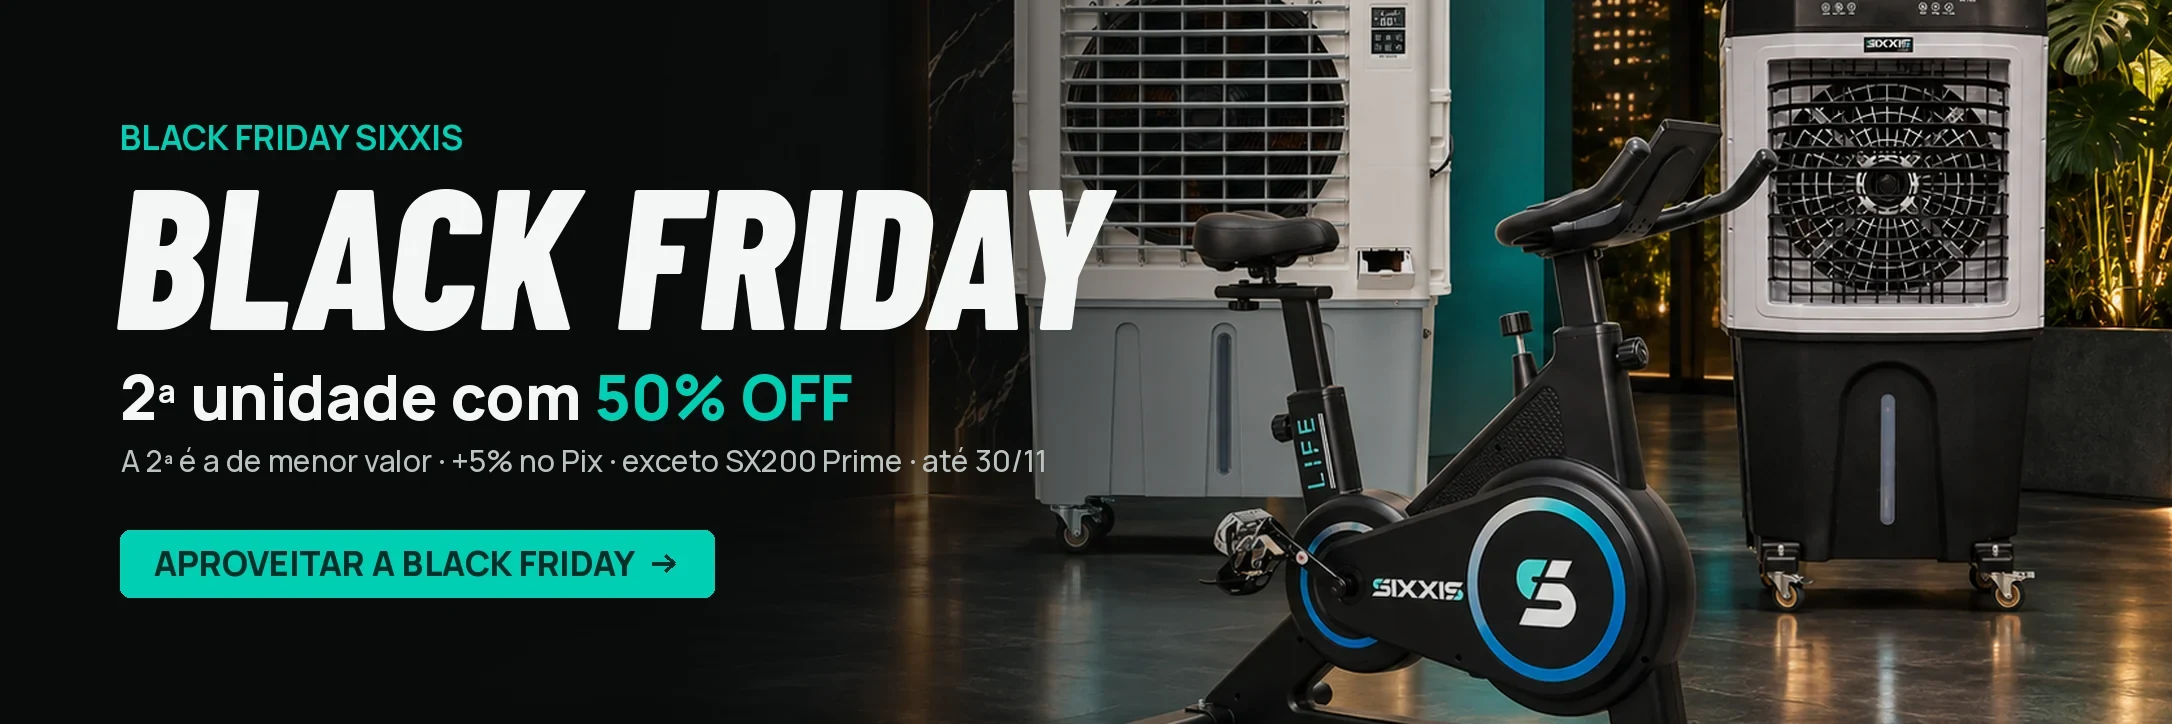
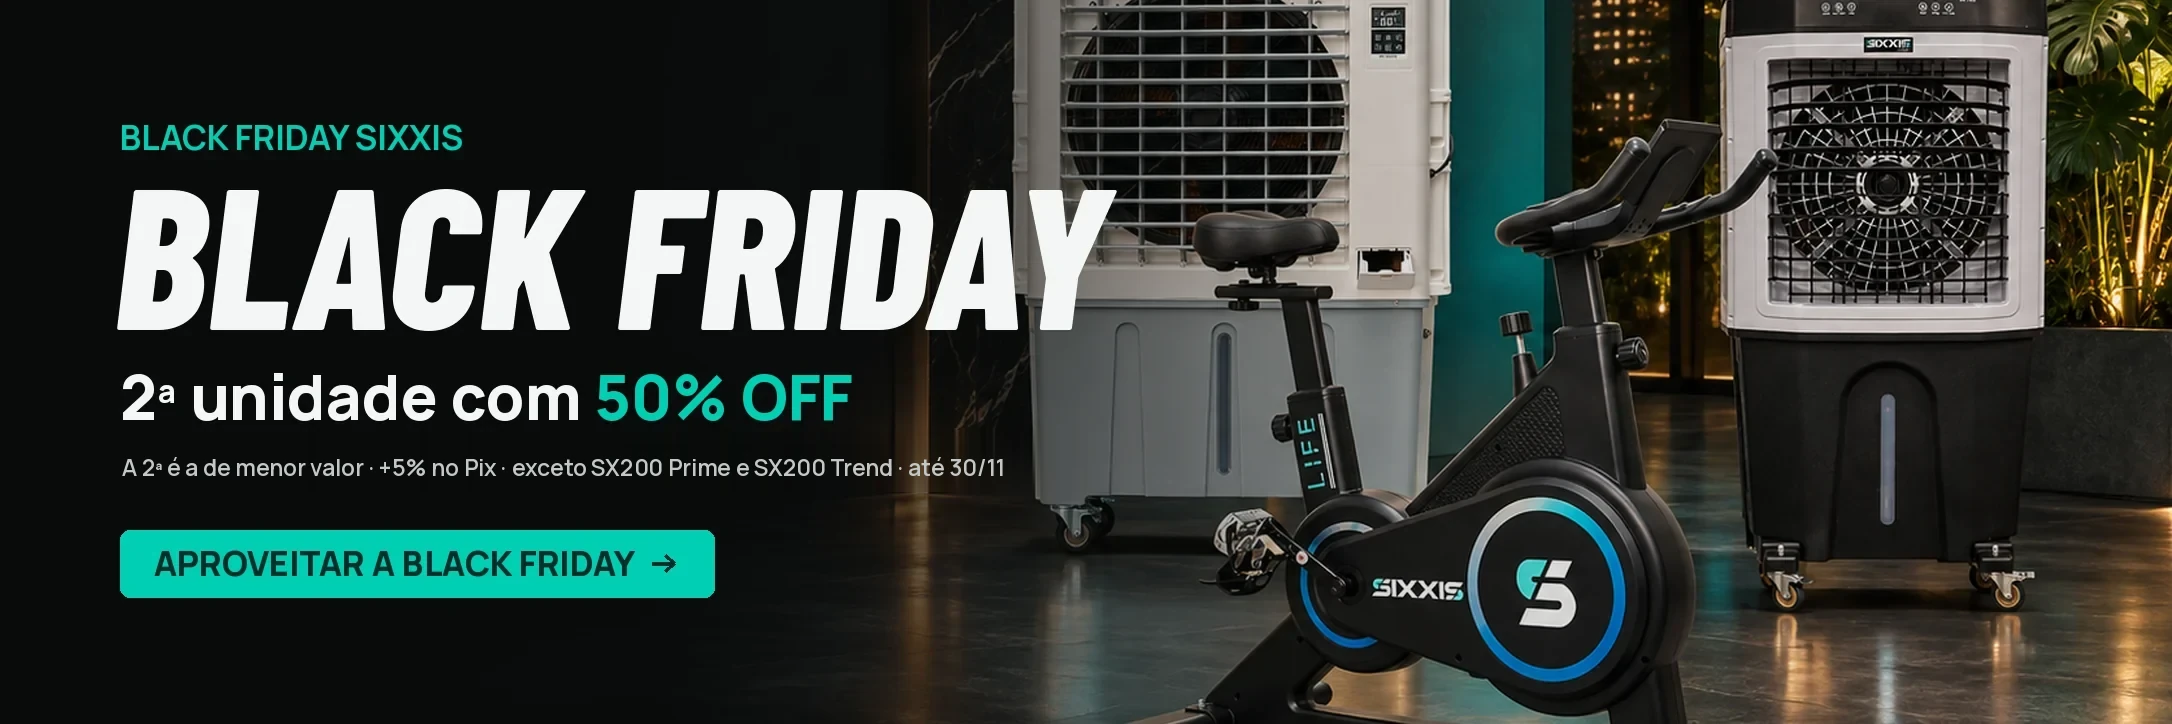
feat(storefront): remove SX200 Trend promotions

Changed region(s): [[0.0617, 0.6077, 0.4936, 0.6685]]

diff --git a/src/lib/api-v1/resources/vendas.ts b/src/lib/api-v1/resources/vendas.ts
@@ -553,9 +553,9 @@ export function createCommerceResources(deps: CommerceResourceOptions = {}): Res
     },
     {
       slug: 'cupons', model: 'Cupom', scope: 'read:pedidos',
-      scalarFields: ['id', 'codigo', 'tipo', 'valor', 'usoMaximo', 'totalUsos', 'pedidoMinimo', 'validade', 'ativo', 'descricao', 'primeiraCompra', 'produtoIds', 'unidadeUnica', 'createdAt', 'updatedAt'],
+      scalarFields: ['id', 'codigo', 'tipo', 'valor', 'usoMaximo', 'totalUsos', 'pedidoMinimo', 'validade', 'ativo', 'descricao', 'primeiraCompra', 'produtoIds', 'produtoIdsExcluidos', 'unidadeUnica', 'createdAt', 'updatedAt'],
       publicFields: ['codigo'],
-      select: { id: true, codigo: true, tipo: true, valor: true, usoMaximo: true, totalUsos: true, pedidoMinimo: true, validade: true, ativo: true, descricao: true, primeiraCompra: true, produtoIds: true, unidadeUnica: true, createdAt: true, updatedAt: true } as const satisfies Prisma.CupomSelect,
+      select: { id: true, codigo: true, tipo: true, valor: true, usoMaximo: true, totalUsos: true, pedidoMinimo: true, validade: true, ativo: true, descricao: true, primeiraCompra: true, produtoIds: true, produtoIdsExcluidos: true, unidadeUnica: true, createdAt: true, updatedAt: true } as const satisfies Prisma.CupomSelect,
       fields: [
         { name: 'id', type: 'string' },
         { name: 'codigo', type: 'string' },
@@ -569,6 +569,7 @@ export function createCommerceResources(deps: CommerceResourceOptions = {}): Res
         { name: 'descricao', type: 'string', nullable: true },
         { name: 'primeiraCompra', type: 'boolean' },
         { name: 'produtoIds', type: 'string', nullable: true },
+        { name: 'produtoIdsExcluidos', type: 'string', nullable: true, description: 'CSV de produtos que não recebem o cupom.' },
         { name: 'unidadeUnica', type: 'boolean', description: 'Quando true, o cupom só vale com 1 unidade no carrinho (mutuamente exclusivo com a promo da 2ª unidade).' },
         { name: 'createdAt', type: 'string', format: 'date-time' },
         { name: 'updatedAt', type: 'string', format: 'date-time' },
@@ -608,6 +609,7 @@ export function createCommerceResources(deps: CommerceResourceOptions = {}): Res
           descricao: row.descricao,
           primeiraCompra: row.primeiraCompra,
           produtoIds: row.produtoIds,
+          produtoIdsExcluidos: row.produtoIdsExcluidos,
           unidadeUnica: row.unidadeUnica,
           createdAt: timestamp(row.createdAt),
           updatedAt: timestamp(row.updatedAt),

diff --git a/src/lib/promo-segunda-unidade.paridade.test.ts b/src/lib/promo-segunda-unidade.paridade.test.ts
@@ -37,7 +37,7 @@ const SX200_PRIME: Prod = {
   ],
 }
 const SX200_TREND: Prod = {
-  id: 'p-sx200-trend', erp: 'ERP-200T', sku: 'CLIM-SX200-TREND', slug: 'sx200-trend', preco: 5175,
+  id: 'p-sx200-trend', erp: 'ERP-200T', sku: 'CLIM-SX200-TREND', slug: 'sx200-trend', preco: 5750,
   variacoes: [{ id: 'v-t220', sku: 'CLIM-SX200-TREND-220V', preco: null }],
 }
 const SX100: Prod = {
@@ -111,9 +111,14 @@ describe('SX200 Prime fora da promo — item com SKU da variação', () => {
     expect(idExcluidoDaPromo('CLIM-SX200-PRIME-Branco')).toBe(true)
     expect(idExcluidoDaPromo(null)).toBe(false)
   })
-  it('nome parecido não é variação: SX200 Trend continua na promo', () => {
-    const r = calcularPromoCliente([{ feedId: 'CLIM-SX200-TREND-220V', preco: 5175, quantidade: 2 }], DENTRO)
-    expect(r.desconto).toBeCloseTo(2587.5, 2)
+  it('SX200 Trend e sua variação ficam fora da promoção e sem selo', () => {
+    const r = calcularPromoCliente([{ feedId: 'CLIM-SX200-TREND-220V', preco: 5750, quantidade: 2 }], DENTRO)
+    expect(r.ativo).toBe(false)
+    expect(r.desconto).toBe(0)
+    expect(idExcluidoDaPromo('CLIM-SX200-TREND')).toBe(true)
+    expect(idExcluidoDaPromo('CLIM-SX200-TREND-220V')).toBe(true)
+    expect(promoVigentePorFeedId('CLIM-SX200-TREND', DENTRO)).toBeNull()
+    expect(promoVigentePorFeedId('CLIM-SX200-TREND-220V', DENTRO)).toBeNull()
   })
 })
 
@@ -155,7 +160,7 @@ describe('paridade cliente == servidor (matriz de carrinhos)', () => {
       ],
       desconto: 1995,
     },
-    { nome: '2× SX200 Trend (COM desconto)', linhas: [{ p: SX200_TREND, variacaoId: 'v-t220', quantidade: 2 }], desconto: 2587.5 },
+    { nome: '2× SX200 Trend (SEM desconto)', linhas: [{ p: SX200_TREND, variacaoId: 'v-t220', quantidade: 2 }], desconto: 0 },
     {
       nome: 'SX100 + aspirador (desconto no mais barato)',
       linhas: [
@@ -180,6 +185,7 @@ describe('ressalva visível da promo', () => {
   it('com produto excluído, a ressalva existe e cita o produto (promessa em destaque não pode omitir a exceção)', () => {
     expect(PROMO_BF.excluir.length).toBeGreaterThan(0)
     expect(PROMO_BF.ressalva).toMatch(/SX200 Prime/)
+    expect(PROMO_BF.ressalva).toMatch(/SX200 Trend/)
   })
   it('o selo de PDP/vitrine carrega a ressalva', () => {
     expect(promoVigentePorFeedId('CLIM-SX100-TREND', DENTRO)?.ressalva).toBe(PROMO_BF.ressalva)

diff --git a/src/lib/cupom.ts b/src/lib/cupom.ts
@@ -113,22 +113,21 @@ export async function avaliarCupom(
   }
 
   // ── Escopo por produto (modelo) ───────────────────────────────────────────
-  // produtoIds vazio/null = cupom global (comportamento legado). Preenchido =
-  // só vale se o carrinho tiver produto elegível, e o desconto incide APENAS
-  // sobre o subtotal desses itens — não sobre o carrinho inteiro, pra não dar
-  // 10% em tudo só por ter o modelo no carrinho.
-  const escopo = (cupom.produtoIds ?? '').split(',').map((s) => s.trim()).filter(Boolean)
+  // produtoIds = inclusão opcional; produtoIdsExcluidos = exclusão opcional.
+  // Com qualquer escopo, a base vem dos itens elegíveis. Assim o servidor nunca
+  // dá desconto num produto excluído só porque o cupom é global.
+  const inclusoes = new Set((cupom.produtoIds ?? '').split(',').map((s) => s.trim()).filter(Boolean))
+  const exclusoes = new Set((cupom.produtoIdsExcluidos ?? '').split(',').map((s) => s.trim()).filter(Boolean))
   let baseDesconto = total
-  if (escopo.length > 0) {
-    const elegiveis = new Set(escopo)
+  if (inclusoes.size > 0 || exclusoes.size > 0) {
     baseDesconto = (itens ?? [])
-      .filter((i) => elegiveis.has(i.produtoId))
+      .filter((i) => (inclusoes.size === 0 || inclusoes.has(i.produtoId)) && !exclusoes.has(i.produtoId))
       .reduce((acc, i) => acc + i.subtotal, 0)
     if (baseDesconto <= 0) {
       return {
         valido: false,
         motivo: 'PRODUTO_NAO_ELEGIVEL',
-        erro:   'Este cupom vale apenas para um produto específico. Adicione o produto elegível ao carrinho.',
+        erro:   'Este cupom não é válido para os produtos do carrinho.',
       }
     }
   }

diff --git a/src/lib/cupom-unidade-unica.test.ts b/src/lib/cupom-unidade-unica.test.ts
@@ -31,6 +31,15 @@ function cupom(over: Partial<Cupom> = {}): Cupom {
   } as Cupom
 }
 
+type CupomComExclusoes = Cupom & { produtoIdsExcluidos: string | null }
+
+function cupomComExclusoes(
+  produtoIdsExcluidos: string | null,
+  over: Partial<Cupom> = {},
+): CupomComExclusoes {
+  return { ...cupom(over), produtoIdsExcluidos }
+}
+
 describe('cupom unidadeUnica (BLACKFRIDAY10 — só com 1 produto)', () => {
   it('válido com EXATAMENTE 1 unidade → 10% de desconto', async () => {
     const r = await avaliarCupom(cupom(), 1000, null, undefined, 1)
@@ -59,5 +68,29 @@ describe('cupom unidadeUnica (BLACKFRIDAY10 — só com 1 produto)', () => {
   it('sem totalUnidades informado (chamador legado) → regra omitida, cupom passa', async () => {
     const r = await avaliarCupom(cupom(), 1000, null, undefined, undefined)
     expect(r.valido).toBe(true)
+  })
+
+  it('REJEITA o SX200 Trend mesmo com exatamente 1 unidade', async () => {
+    const r = await avaliarCupom(
+      cupomComExclusoes('p-sx200-trend'),
+      5750,
+      null,
+      [{ produtoId: 'p-sx200-trend', subtotal: 5750 }],
+      1,
+    )
+    expect(r.valido).toBe(false)
+    expect(r.motivo).toBe('PRODUTO_NAO_ELEGIVEL')
+  })
+
+  it('mantém o BLACKFRIDAY10 válido para uma unidade de produto elegível', async () => {
+    const r = await avaliarCupom(
+      cupomComExclusoes('p-sx200-trend'),
+      3990,
+      null,
+      [{ produtoId: 'p-sx100', subtotal: 3990 }],
+      1,
+    )
+    expect(r.valido).toBe(true)
+    expect(r.desconto).toBe(399)
   })
 })

diff --git a/src/lib/promo-segunda-unidade.ts b/src/lib/promo-segunda-unidade.ts
@@ -65,12 +65,14 @@ export const PROMO_BF: ConfigPromoBF = {
   inicio:             '2026-11-23T00:00:00-03:00', // começa hoje (GO do Luccas 23/11)
   fim:                '2026-11-30T23:59:59-03:00',  // Cyber Monday (default — confirmar fim com Luccas)
   descricao:          '2ª unidade com 50% OFF — Black Friday',
-  ressalva:           'exceto SX200 Prime',
-  // 23/11/2026 (pedido do Luccas): SX200 Prime fora da promo da 2ª unidade
-  // (único produto excluído). Lista sku E slug para cobrir desconto E badge
-  // (feedId = sku ?? slug). As variações CLIM-SX200-PRIME-Branco/-Preto (que é o
-  // que o carrinho guarda) caem pela regra do SKU-base — ver `excluido()`.
-  excluir:            ['CLIM-SX200-PRIME', 'sx200-prime'],
+  ressalva:           'exceto SX200 Prime e SX200 Trend',
+  // SX200 Prime e SX200 Trend ficam fora da promo da 2ª unidade. Lista sku E
+  // slug para cobrir desconto E badge (feedId = sku ?? slug). As variações caem
+  // pela regra do SKU-base — ver `excluido()`.
+  excluir:            [
+    'CLIM-SX200-PRIME', 'sx200-prime',
+    'CLIM-SX200-TREND', 'sx200-trend',
+  ],
   pisoItemDescontado: 0,
 }
 

diff --git a/src/lib/produto-disponibilidade.test.ts b/src/lib/produto-disponibilidade.test.ts
@@ -1,0 +1,16 @@
+import { describe, expect, it } from 'vitest'
+import { avisoEntregaProduto } from './produto-disponibilidade'
+
+describe('aviso de entrega por produto', () => {
+  it('informa a data exata do SX200 Trend', () => {
+    expect(avisoEntregaProduto('sx200-trend')).toEqual({
+      titulo: 'Prazo de entrega',
+      mensagem: 'A partir de 15/12/2026',
+    })
+  })
+
+  it('não mostra aviso especial nos demais produtos', () => {
+    expect(avisoEntregaProduto('sx200-prime')).toBeNull()
+    expect(avisoEntregaProduto('')).toBeNull()
+  })
+})

diff --git a/src/lib/produto-disponibilidade.ts b/src/lib/produto-disponibilidade.ts
@@ -1,0 +1,16 @@
+export interface AvisoEntregaProduto {
+  titulo: string
+  mensagem: string
+}
+
+const AVISOS_ENTREGA: Readonly<Record<string, AvisoEntregaProduto>> = {
+  'sx200-trend': {
+    titulo: 'Prazo de entrega',
+    mensagem: 'A partir de 15/12/2026',
+  },
+}
+
+export function avisoEntregaProduto(slug: string | null | undefined): AvisoEntregaProduto | null {
+  if (!slug) return null
+  return AVISOS_ENTREGA[slug] ?? null
+}

diff --git a/docs/superpowers/plans/2026-11-27-sx200-trend-e-lotes-bf.md b/docs/superpowers/plans/2026-11-27-sx200-trend-e-lotes-bf.md
@@ -1,0 +1,86 @@
+# SX200 Trend e Lotes Black Friday Implementation Plan
+
+> **For agentic workers:** REQUIRED SUB-SKILL: Use superpowers:executing-plans to implement this plan task-by-task. Steps use checkbox (`- [ ]`) syntax for tracking.
+
+**Goal:** Aplicar as novas regras do SX200 Trend, comunicar o cupom no header e mostrar lotes BF auditáveis e elegantes.
+
+**Architecture:** Regras puras e centralizadas para promoção, cupom, entrega e lotes; consultas server-side agregam apenas pedidos pagos. Os componentes recebem dados serializáveis e não consultam banco no cliente.
+
+**Tech Stack:** Next.js 16, React 19, TypeScript, Prisma/MySQL, Tailwind CSS, Vitest.
+
+**Spec:** `docs/superpowers/specs/2026-11-27-sx200-trend-e-lotes-bf.md`
+
+## Global Constraints
+
+- Testes primeiro: cada nova regra deve falhar antes da implementação.
+- Sem escrita crua em produção; mudança de schema apenas aditiva.
+- Voltagem nunca pré-selecionada.
+- Cupom e promoção de 50% nunca acumulam; servidor é a autoridade.
+- Contadores representam lote promocional real, não vendas simuladas.
+- Sem dependências novas.
+- QA em desktop, tablet e celular; sem criar pedido ou pagamento real.
+
+## Review Focus
+
+- SKU de variação do SX200 Trend também precisa ser excluído dos 50%.
+- Um carrinho com duas unidades deve recusar `BLACKFRIDAY10` mesmo sem promo elegível.
+- Pedidos pendentes/cancelados não podem reduzir o lote.
+- Sixxis Life precisa separar preta e branca.
+- Estoque real menor que o lote precisa limitar o número exibido.
+
+---
+
+### Task 1: Regras comerciais e entrega do SX200 Trend
+
+**Files:**
+- Modify: `src/lib/promo-segunda-unidade.ts`
+- Modify: `src/lib/promo-segunda-unidade.paridade.test.ts`
+- Modify: `prisma/schema.prisma`
+- Create: `prisma/migrations/20261127150000_sx200_trend_regras_comerciais/migration.sql`
+- Modify: `src/lib/cupom.ts`
+- Modify: `src/lib/cupom-unidade-unica.test.ts`
+- Create: `src/lib/produto-disponibilidade.ts`
+- Create: `src/lib/produto-disponibilidade.test.ts`
+
+- [ ] Escrever e executar testes RED para exclusão da promoção, cupom e aviso.
+- [ ] Implementar a menor mudança para os testes passarem.
+- [ ] Atualizar a ressalva textual e o banner BF raster.
+
+### Task 2: Saldos auditáveis do lote BF
+
+**Files:**
+- Create: `src/lib/estoque-promocional-bf.ts`
+- Create: `src/lib/estoque-promocional-bf.test.ts`
+- Create: `src/lib/estoque-promocional-bf.server.ts`
+- Modify: `src/types/index.ts`
+- Modify: `src/app/api/produtos/route.ts`
+- Modify: `src/app/(loja)/page.tsx`
+- Modify: `src/app/(loja)/ofertas/page.tsx`
+- Modify: `src/app/(loja)/produtos/[slug]/page.tsx`
+
+- [ ] Escrever e executar testes RED para configuração, pagos, limites e Life por cor.
+- [ ] Implementar cálculo puro e agregação server-side.
+- [ ] Anexar os saldos às respostas e páginas sem waterfalls desnecessários.
+
+### Task 3: Comunicação visual no header, cards, PDP e modal
+
+**Files:**
+- Create: `src/components/produto/AvisoUltimasUnidades.tsx`
+- Modify: `src/components/layout/Header.tsx`
+- Modify: `src/components/produto/CardProduto.tsx`
+- Modify: `src/components/produto/InfoProdutoCB.tsx`
+- Modify: `src/components/produto/ProdutoGaleriaInfo.tsx`
+- Modify: `src/components/produto/SelectVariacaoModal.tsx`
+- Modify: `src/components/bf/BlocosHome.tsx`
+
+- [ ] Implementar o componente no design Sixxis, acessível e sem animação enganosa.
+- [ ] Mostrar cupom e regra de não acumulação no header.
+- [ ] Mostrar lote e entrega nos caminhos de card/PDP/modal.
+
+### Task 4: Gates, revisão, publicação e QA
+
+- [ ] Rodar Prisma validate/generate, testes focados, suíte completa, tsc, lint comparativo e build.
+- [ ] Fazer revisão independente no HEAD exato e corrigir achados reproduzíveis.
+- [ ] Commitar, publicar em `main`, observar Railway e validar produção.
+- [ ] Capturar screenshots em 390 px, tablet e desktop; testar carrinho/checkout até antes do pagamento.
+- [ ] Registrar receipt e memória, incluindo o que foi e não foi verificado.

diff --git a/docs/superpowers/specs/2026-11-27-sx200-trend-e-lotes-bf.md b/docs/superpowers/specs/2026-11-27-sx200-trend-e-lotes-bf.md
@@ -1,0 +1,59 @@
+# SX200 Trend + lotes promocionais BF — especificação
+
+## Objetivo
+
+1. Remover o desconto direto de 10% do SX200 Trend.
+2. Excluir SX200 Trend da promoção automática “2ª unidade com 50% OFF”, como o SX200 Prime.
+3. Exibir no SX200 Trend: “Prazo de entrega: a partir de 15/12/2026.”
+4. Exibir saldos auditáveis dos lotes Black Friday nos cards, PDP e seletor de variação.
+5. Divulgar no header o cupom `BLACKFRIDAY10`: 10% em uma unidade elegível, sem acumular com os 50% da segunda unidade.
+6. Preservar 5% no Pix, parcelamento, seleção obrigatória de voltagem e os demais fluxos.
+
+## Regras comerciais
+
+- `BLACKFRIDAY10` vale somente para carrinho com exatamente uma unidade.
+- SX200 Trend não recebe o desconto direto, não participa dos 50% da segunda unidade e não é elegível ao `BLACKFRIDAY10`.
+- SX200 Prime e SX200 Trend ficam fora da promoção de 50%; a ressalva deve aparecer em texto e no banner raster.
+- Se a promoção de 50% incidir, nenhum cupom é aplicado. O servidor continua como autoridade.
+- A comunicação do header deve dizer explicitamente “10% OFF”, o código, “1 unidade elegível” e “não acumula com 50% na 2ª unidade”.
+- O aviso de entrega do SX200 Trend deve aparecer na PDP e no card, inclusive antes da compra direta.
+
+## Lotes Black Friday
+
+Saldo exibido = `min(lote configurado - quantidade de itens em pedidos pagos da campanha, estoque real atual)`, limitado a zero.
+
+A contagem considera pedidos com status pago/enviado/entregue, criados a partir de 23/11/2026. Pedidos pendentes/cancelados não reduzem o lote. O valor é derivado em leitura; não cria contador mutável nem escrita adicional.
+
+- Aspirador Bravo: 30
+- SX180 Trend: 28
+- SX100 Trend: 12
+- SX040: 20
+- Life preta: 14
+- Life branca: 10
+- Cardio: 20
+- M45 Trend: 26
+- SX070 Trend: 8
+- SX060 Prime: 6
+- SX120 Prime: 10
+
+Para Sixxis Life, o saldo é por variação de cor. No card sem seleção, mostrar o total das cores; após a seleção, mostrar o saldo da cor.
+
+Os números são “unidades do lote Black Friday”, não alegação de vendas. Uma redução manual futura representa redução real da alocação promocional e será feita na configuração, sem simular pedidos.
+
+## Direção visual
+
+Preservar os tokens e a linguagem visual Sixxis. Criar um componente reutilizável, plano e sem gradiente:
+- fundo âmbar suave em campo inteiro;
+- detalhe vertical vermelho/âmbar de urgência;
+- ícone discreto;
+- número com algarismos tabulares e forte hierarquia;
+- texto “Últimas N unidades do lote Black Friday” / “Última unidade do lote Black Friday”;
+- contraste AA, sem piscar, sem animação contínua;
+- compacto no card, mais informativo na PDP e no modal;
+- responsivo em 390 px, tablet e desktop.
+
+## Fora de escopo
+
+- Não criar pedidos ou pagamentos reais para testar.
+- Não alterar estoque físico.
+- Não automatizar uma redução futura sem quantidade e horário definidos.
